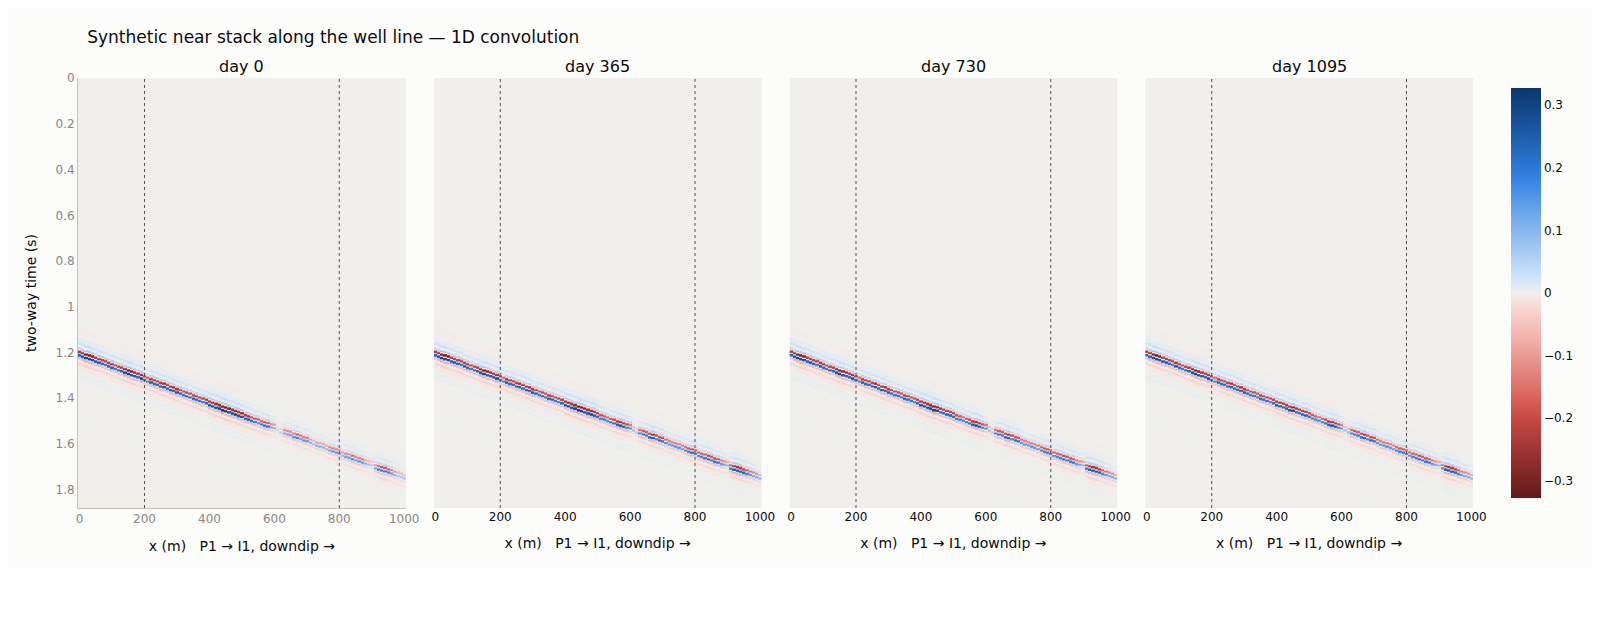
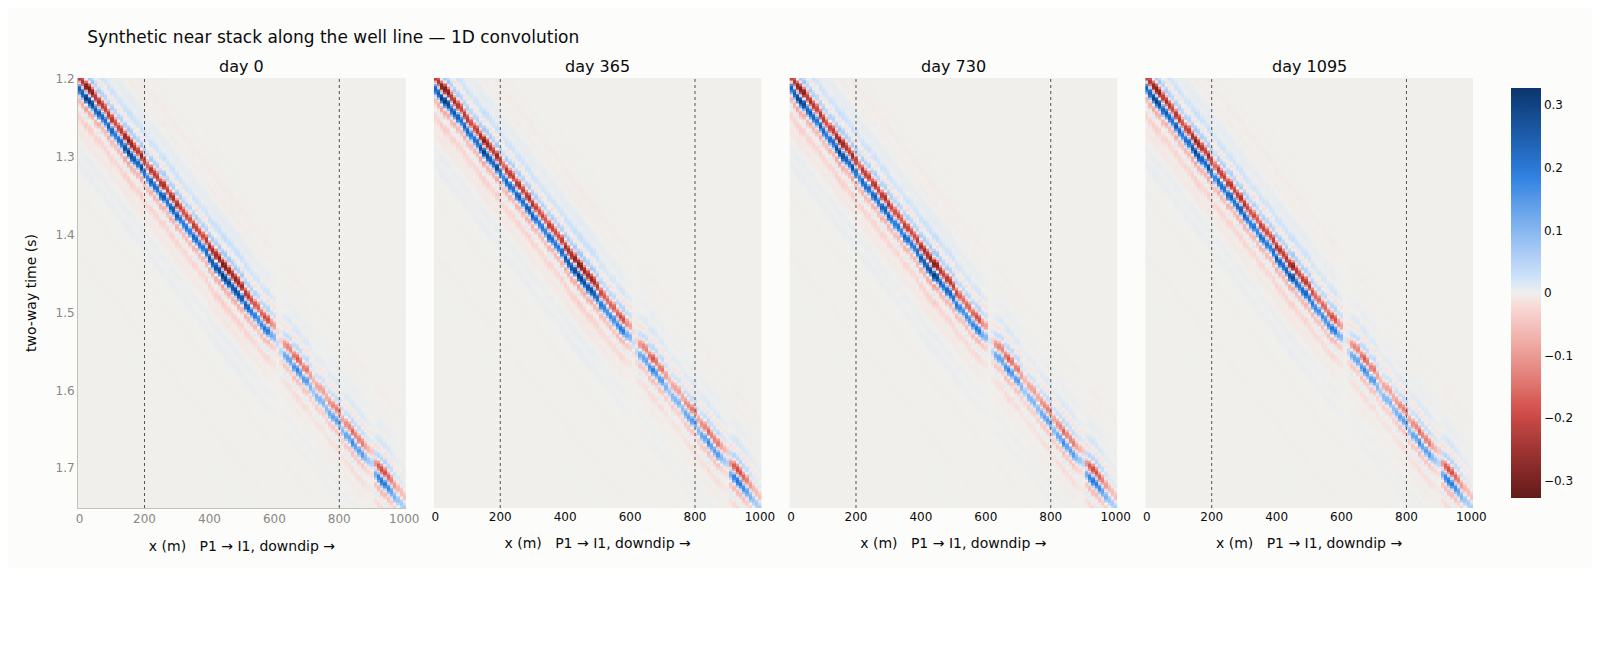
Recompute every flow-derived number the water-leg clamp had wrong
The clamp put 25% oil across the aquifer on the first timestep and the
flood removed it again, so every number in this document that came through
the flow simulator was measured on a state the model was never meant to be
in. All of them are recomputed here.

The flow barely moved: 1,873 swept cells against 1,851, the same contact
positions, the same well rates to the psi. The seismic did. Combined
near-stack NRMS falls 23.15 -> 13.65, and saturation-only 22.53 -> 10.81:
nearly half of what was reported as 4D signal was the aquifer relaxing.

Two claims are withdrawn rather than adjusted:

* the polarity flip at x = 520 was the manufactured oil being produced
  away, not physics. The difference leads with a positive lobe at every
  swept trace, measured sample by sample at 470, 500 and 520 m.
* "the peak saturates" was read off a flat 28.4/28.1/28.2 that the
  spurious signal had already maxed out. It grows first - 18.9, 27.5,
  28.2 - and the anomaly's edges say more than its peak: pinned at 530 m
  downdip, advancing 490 -> 450 -> 410 m updip against a flow contact at
  500 -> 460 -> 430 m.

The section, difference and doublet figures are re-rendered from the
corrected run. The migration numbers still stand on the old flow and are
being re-run.

Claude-Session: https://claude.ai/code/session_01BefLg2e3eG4b8hKzg5iNz5

diff --git a/docs/dipping-wedge-4d.md b/docs/dipping-wedge-4d.md
@@ -67,9 +67,9 @@ coefficient — the ordinary class of response for this section.
 | | |
 |---|---|
 | P1, day 1095 | 2,250 STB/day oil, **no water**, BHP 1,968 psi |
-| I1, day 1095 | 2,200 STB/day water, BHP 3,259 psi |
-| material balance | 1.7e-12 over 288 timesteps |
-| swept | 1,851 of 14,645 sand cells, max dSw 0.546 |
+| I1, day 1095 | 2,200 STB/day water, BHP 3,258 psi |
+| material balance | 1.9e-12 over 288 timesteps |
+| swept | 1,873 of 14,645 sand cells, max dSw 0.546 |
 
 The injector sits in water, so every swept cell is the contact itself
 moving. Averaging Sw over the sand in each column puts the oil-water
@@ -77,41 +77,70 @@ boundary at **x = 540 m at the start and x = 430 m after three years**: the
 flood has pushed the contact 110 m updip, and the producer 230 m further
 updip has not yet seen it.
 
+### The water leg is fully wet, and getting there took two attempts
+
+The saturation update used to clamp every cell into the Corey endpoints,
+`[Swc, 1 - Sor]`. Residual oil is the oil a waterflood cannot displace; a
+cell that never held oil has none to leave behind. Clamping the water leg
+to `1 - Sor` therefore put 25 % oil saturation across the entire aquifer on
+the first timestep, oil that was never in the model, and the flood then
+removed it again over three years. In 4D that read as an impedance change
+of **-413,000 in the water leg against the real flood's +412,000** - the
+same size, the opposite sign - which inverted the polarity of the
+difference everywhere downdip of the front and looked exactly like a
+physical result.
+
+The first fix was from the wrong end: initialise the water leg at `1 - Sor`
+so the clamp has nothing to do. That makes the model self-consistent and
+leaves every aquifer in the tool holding immobile oil, which is not a
+property of an aquifer. The ceiling is per cell now, and never below where
+the cell started, so a leg initialised at 1 stays at 1 while a swept oil
+cell still stops at `1 - Sor`.
+
+What it changed, and what it did not: the flow is almost untouched - 1,873
+swept cells against 1,851, the same contact positions, the same well rates
+to the psi - because the spurious oil was removed on the first step and
+barely interacted with the flood. The *seismic* changed completely. The
+combined near-stack NRMS falls from 23.15 % to 13.65 %: nearly half of what
+was being reported as 4D signal was the aquifer relaxing out of a state the
+initialisation should never have put it in.
+
+
 ## The 4D result
 
 NRMS against the baseline, per scenario and angle stack:
 
 | scenario | near | mid | far |
 |---|---|---|---|
-| pressure only | 8.72 | 8.25 | 7.97 |
-| saturation only | 22.53 | 24.38 | 27.57 |
-| combined | 23.15 | 25.02 | 28.38 |
+| pressure only | 8.61 | 8.12 | 7.81 |
+| saturation only | 10.81 | 11.39 | 12.29 |
+| combined | 13.65 | 13.54 | 13.65 |
 
-Noise floor 4.6 % (6 % of signal RMS at 70 % repeatability), so every number
-above is signal.
-
-An earlier geometry, differing only in how widely and finely y was sampled,
-gave 12.78 / 24.90 / 27.18 for the three near-stack figures. Nothing in the
-model varies along y — the dip is along x — so the per-column physics is
-identical and only the cube-wide average moved, by two to four NRMS points.
-Worth stating plainly: a whole-volume NRMS is a property of the volume you
-chose as much as of the change you modelled, and it is not comparable
-between two runs on different grids.
+Noise floor 4.65 % (6 % of signal RMS at 70 % repeatability), so every
+number above is signal.
 
 **The AVO separates the two causes, and in opposite directions.** The
-saturation response *grows* with angle, 24.90 to 30.52; the pressure
-response *falls*, 12.78 to 10.58. That is the discriminator the angle stacks
+saturation response *grows* with angle, 10.81 to 12.29; the pressure
+response *falls*, 8.61 to 7.81. That is the discriminator the angle stacks
 exist for: a far-stack difference that brightens is fluid, one that dims is
-pressure.
+pressure. The combined stack is flat across angle - 13.65, 13.54, 13.65 -
+which is not an absence of AVO but the two trends cancelling, and it is the
+reason to carry the decomposition rather than the combined case alone.
+
+A whole-volume NRMS is also a property of the volume you chose as much as
+of the change you modelled: most of this cube is barren overburden, and
+these figures are diluted by exactly that. They are comparable with each
+other, and not with a number measured over a different volume.
 
 **The time shifts are negligible and that is the useful finding.** The true
-shift peaks at 1.28 ms and the windowed estimate recovers it to 0.61 ms RMS.
-Aligning the monitor before differencing moves the combined near-stack NRMS
-from 23.15 % to 19.94 % — a real but secondary correction. A 20 m reservoir
-changes too little of the travel path to shift the section below it, so this
-4D is an amplitude signal almost entirely. On a thick or compacting
-reservoir the same code gives the opposite answer: 6 ms of shift alone
-manufactures 58 % NRMS.
+shift peaks at 1.07 ms and the windowed estimate recovers it to 0.38 ms
+RMS. Aligning the monitor before differencing moves the combined near-stack
+NRMS from 13.65 % to 11.55 % - a real but secondary correction. A 20 m
+reservoir changes too little of the travel path to shift the section below
+it, so this 4D is an amplitude signal almost entirely. On a thick or
+compacting reservoir the same code gives the opposite answer: 6 ms of shift
+alone manufactures 58 % NRMS.
+
 
 ## Figures
 
@@ -142,25 +171,36 @@ slowest of them, because each survey has its own velocity and so its own
 deepest two-way time, and letting each end at its own would put the
 monitors on axes the baseline cannot be subtracted from.
 
-| day | traces with a 4D response above 10 % of peak | flow contact |
-|---|---|---|
-| 365 | 50 | x = 500 m |
-| 730 | 56 | x = 460 m |
-| 1095 | 62 | x = 430 m |
+| day | the 4D anomaly | peak amplitude | flow contact |
+|---|---|---|---|
+| 365 | x = 490 to 530 m | 18.9 % | x = 500 m |
+| 730 | x = 450 to 530 m | 27.5 % | x = 460 m |
+| 1095 | x = 410 to 530 m | 28.2 % | x = 430 m |
 
-**The peak saturates and the extent grows.** The largest 4D amplitude is
-28.4 %, 28.1 % and 28.2 % of the baseline peak at the three dates -
-essentially unchanged. That is not a flat response: wherever the front has
-passed, the oil-to-water substitution is *complete*, so the amplitude
-change there is maxed out from the first year. What advances is the edge of
-the anomaly, and it advances in step with the contact the flow simulation
-puts there - two calculations that share no code agreeing on the same
-front.
+*Anomaly: the contiguous run of traces whose 4D difference exceeds 10 % of
+the baseline's peak amplitude. Peak amplitude: the largest 4D difference on
+the section, as a percentage of that same baseline peak.*
 
-Reading the anomaly's updip edge directly is harder than it looks: a
-threshold on trace amplitude picks up a small edge-of-model artefact at
-x = 0 before it reaches the front, which is why the table counts affected
-traces rather than quoting an edge position.
+**The anomaly is pinned at one end and advances at the other.** Its downdip
+edge does not move: 530 m at every date, because that is where the contact
+started and there is nothing to change downdip of it. Its updip edge runs
+490 -> 450 -> 410 m, tracking the contact the flow simulation puts at
+500 -> 460 -> 430 m - about 20 m ahead of it, which is the right direction
+and the right size. A trace lights up as soon as *any* water enters the
+column; the column-averaged contact needs half of it. Two calculations that
+share no code, agreeing on the same front to within two cells.
+
+**The peak grows and then saturates**, 18.9 % to 27.5 % to 28.2 %. The first
+year is the anomaly filling in; after that, wherever the front has passed
+the oil-to-water substitution is *complete*, so the amplitude change there
+is maxed out and only the swept area grows.
+
+There is also a single bright trace at x = 0 and one or two isolated ones
+updip of the flood, at x = 280 and 330 m. They are the edge of the model
+and the pressure response respectively, not the flood, which is why the
+table quotes the contiguous run rather than a count of traces over a
+threshold.
+
 
 ## Why the 4D difference is a doublet
 
@@ -171,8 +211,8 @@ One trace at x = 470 m, where the response is strongest:
 | | AI |
 |---|---|
 | sand, day 0 | 4,997,368 |
-| sand, day 1095 | 5,387,685 (+7.8 %) |
-| surrounding shale | 7,289,456 |
+| sand, day 1095 | 5,387,663 (+7.8 %) |
+| shale just above | 7,223,683 |
 
 Water hardens the sand - Sw goes 0.18 to 0.67 and impedance rises 7.8 % -
 and the depletion helps in the same direction, since falling pore pressure
@@ -181,20 +221,37 @@ is a *trough*, not a peak, and hardening the sand shrinks that contrast:
 
 | | baseline | monitor | difference |
 |---|---|---|---|
-| sand top, 1.452 s | -0.26 | -0.22 | **+0.08, a peak** |
-| sand base, 1.466 s | +0.26 | +0.20 | **-0.055, a trough** |
+| sand top, 1.452 s | -0.263 | -0.200 | **+0.063, a peak** |
+| sand base, 1.466 s | +0.242 | +0.206 | **-0.036, a trough** |
 
 Opposite signs at the two interfaces, because a harder sand shrinks the
 contrast at both - and the contrasts have opposite polarity to begin with.
-The reflection coefficient at the top goes from -0.187 to -0.150.
+The reflection coefficient at the top goes from -0.182 to -0.146.
 
 They do not appear as two events because the sand is **13.6 ms thick**
 two-way, far shorter than the wavelet. The two opposite-signed changes
 interfere into a single doublet that is close to the wavelet's derivative
 scaled by the bed thickness. That is a thin-bed impedance response, not a
-time shift: the measured shifts peak at 1.28 ms, nowhere near enough to
+time shift: the measured shifts peak at 1.07 ms, nowhere near enough to
 produce this amplitude, and a shift would move both interfaces the same way
 rather than opposite ways.
+
+**Water makes a peak at the top, everywhere the flood has reached.** That is
+worth stating because it was not always true here. Reading the difference
+trace sample by sample at x = 470, 500 and 520 m - the swept section - each
+one leads with a positive lobe of +0.077, +0.054 and +0.071, then a
+negative one of the same size about 20 ms later. The only thing ahead of
+the positive lobe is the Ormsby's own leading sidelobe, a tenth to a
+quarter of its size, which is a property of the wavelet and not of the
+flood. Downdip of about 550 m the response collapses to 2 % of the baseline
+peak - the aquifer was already wet and nothing happened to it.
+
+The record used to show a polarity flip at x = 520, trough-then-peak
+downdip of the front. It was not physics. It was the manufactured oil in
+the water leg being produced away, an impedance *decrease* where the real
+flood gives an increase, and it reversed the doublet everywhere beyond the
+front. The flip is gone with the clamp that caused it.
+
 
 ## The migration
 
